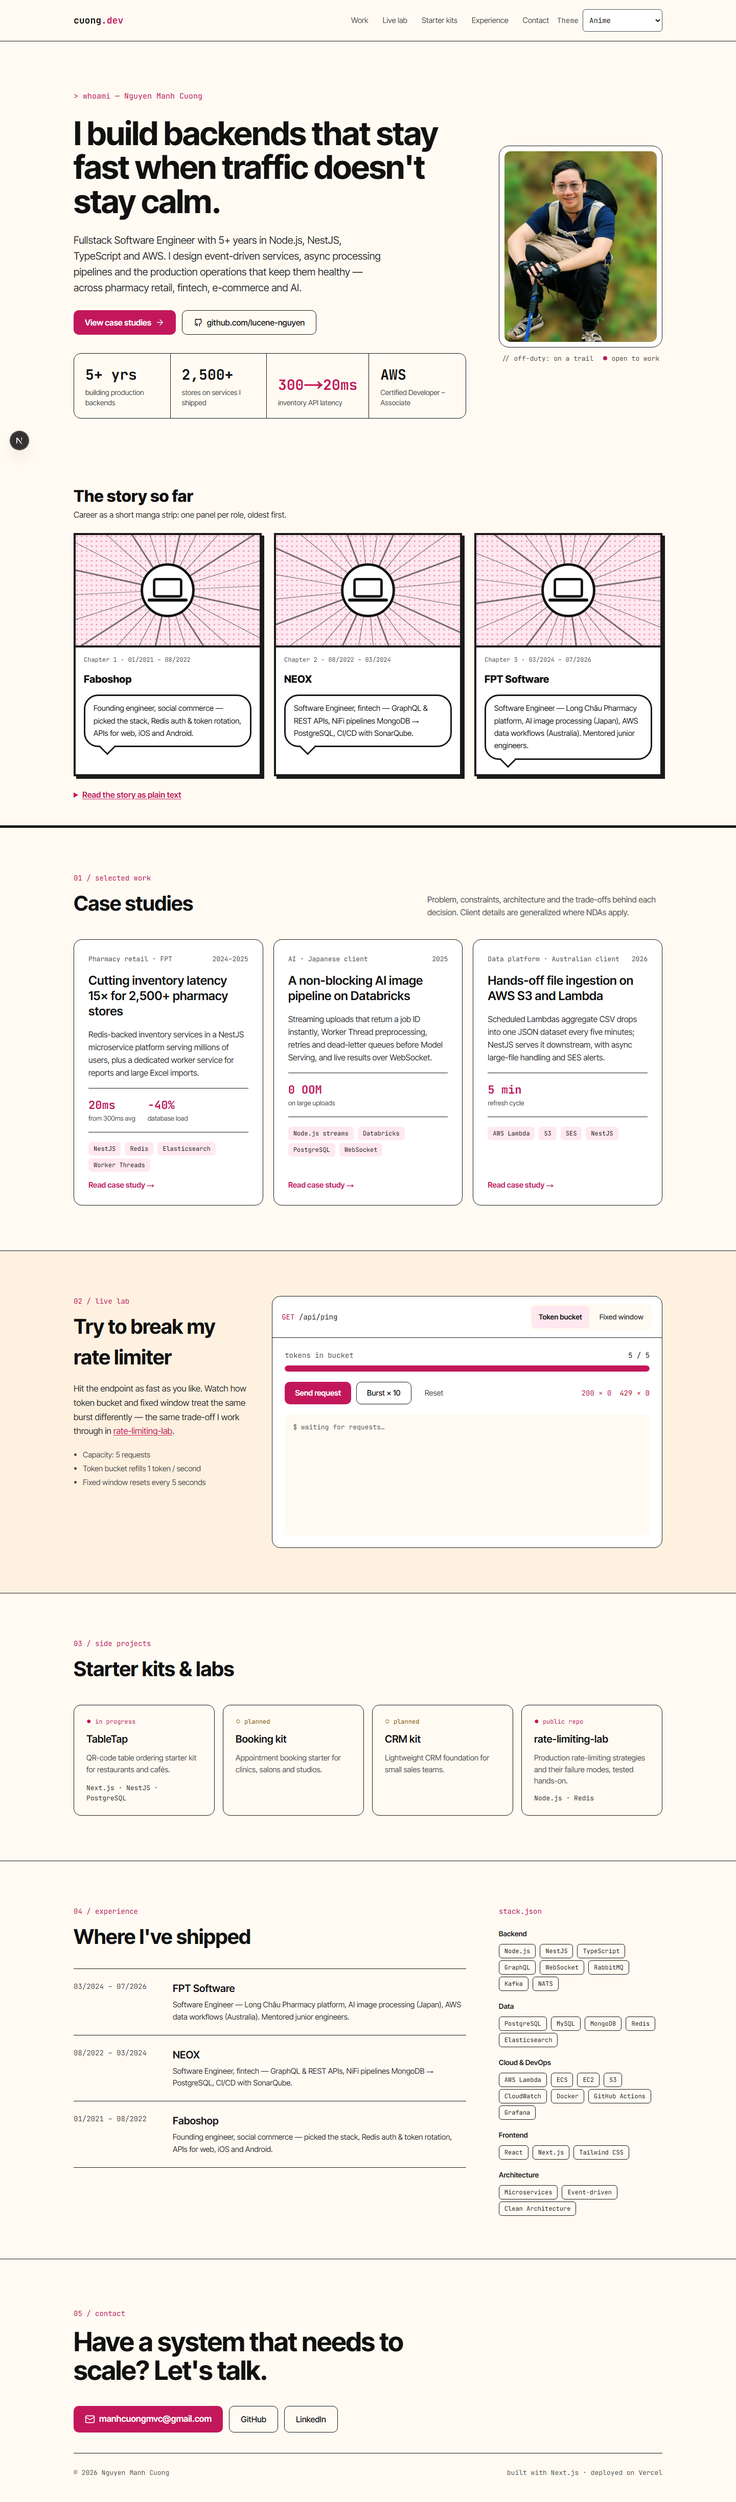
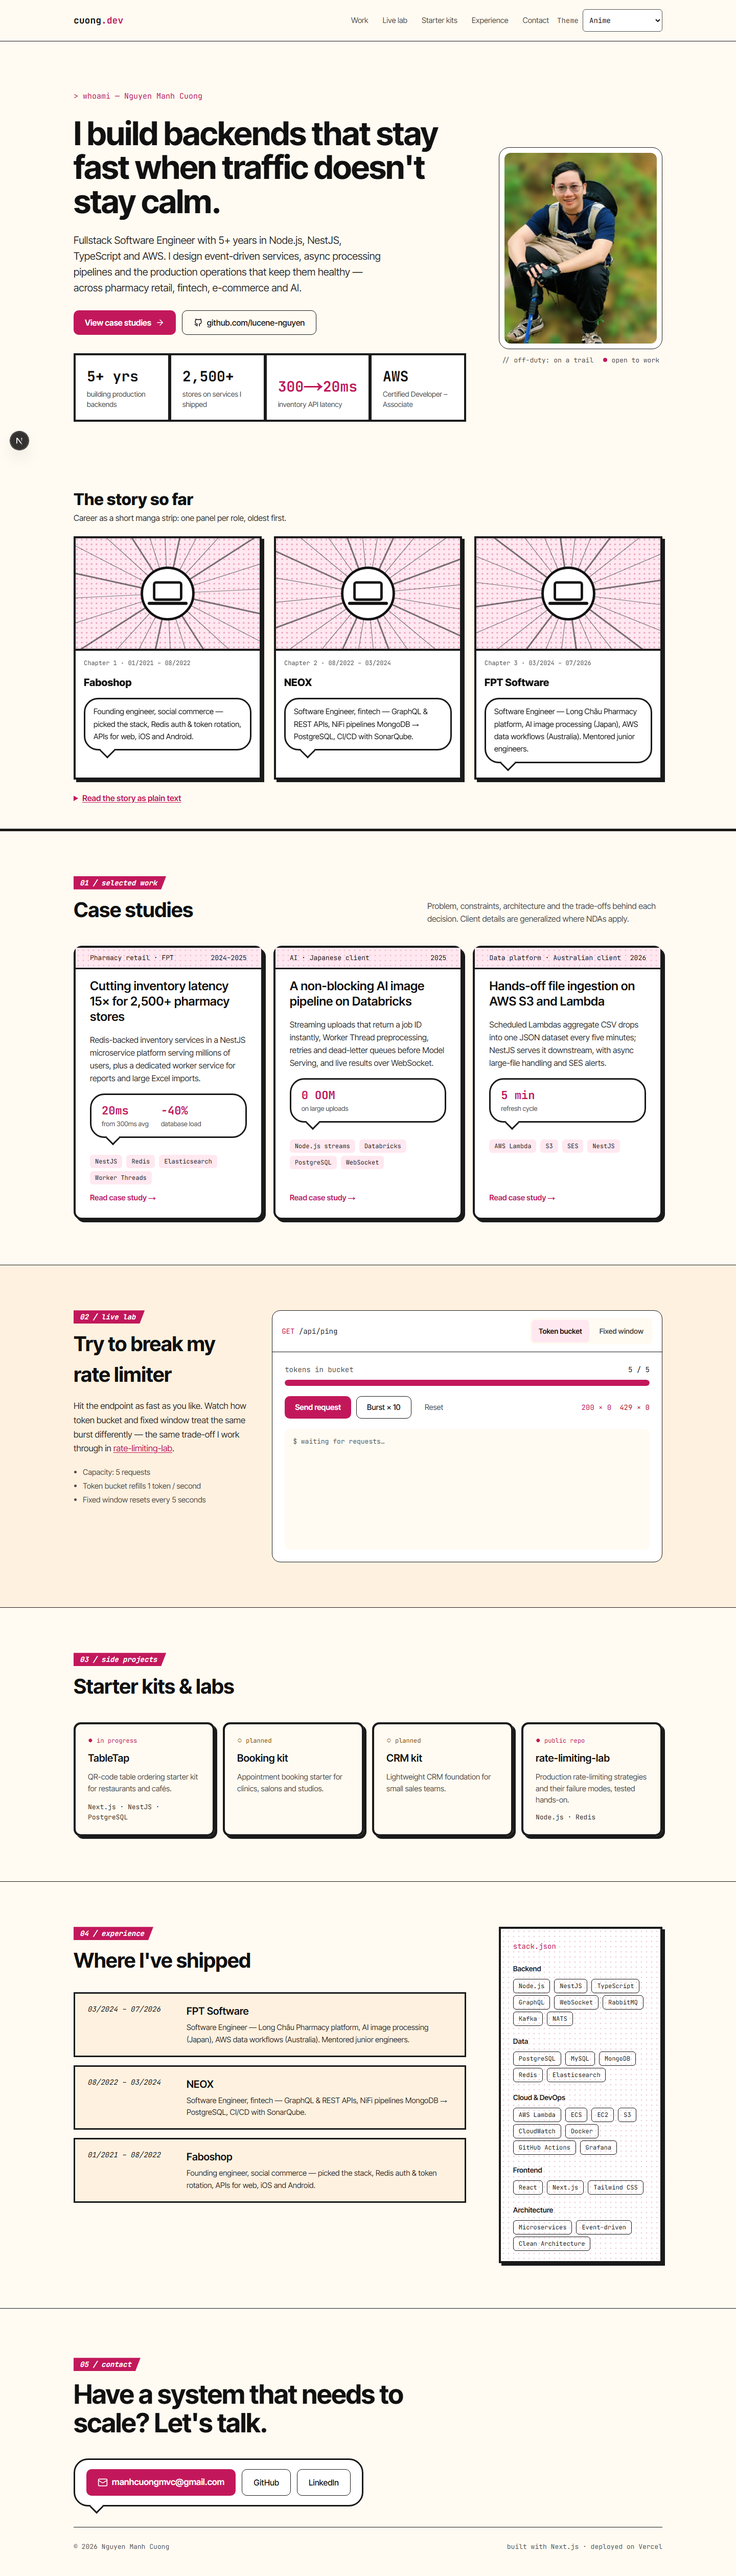
feat(ui): anime restyle - ink panels, screentone strips, speech-bubble metrics and contact, comic-page stats; checklist waits for entrance animations; screenshots

diff --git a/themes/anime/anime.css b/themes/anime/anime.css
@@ -34,3 +34,114 @@
     opacity: 0;
   }
 }
+
+/* Shared sections (design-system/portfolio-v3/pages/anime.md › Layout). Static: no new motion. */
+[data-theme="anime"] {
+  --mg-tone: radial-gradient(
+      color-mix(in srgb, var(--accent) 22%, transparent) 1.5px,
+      transparent 1.6px
+    )
+    0 0 / 10px 10px;
+}
+[data-theme="anime"] [data-part="eyebrow"] {
+  width: fit-content;
+  padding: 3px 18px 3px 12px;
+  background: var(--accent);
+  color: var(--accent-contrast);
+  font-weight: 700;
+  font-style: italic;
+  clip-path: polygon(0 0, 100% 0, calc(100% - 10px) 100%, 0 100%); /* chapter tab */
+}
+
+/* Case studies and kits: ink panels. */
+[data-theme="anime"] :is([data-part="case-card"], [data-part="kit"] > *) {
+  border: 4px solid var(--border) !important;
+  box-shadow: 5px 5px 0 var(--border);
+}
+/* Meta line: a screentone caption strip, edge to edge (card p-7, 4px border). */
+[data-theme="anime"] [data-part="case-meta"] {
+  margin: -1.75rem -1.75rem 0;
+  padding: 10px 1.75rem;
+  border-bottom: 3px solid var(--border);
+  background: var(--mg-tone), var(--surface2);
+  color: var(--text);
+}
+/* Metrics: a speech bubble with a tail. */
+[data-theme="anime"] [data-part="case-metrics"] {
+  position: relative;
+  margin-bottom: 14px;
+  padding: 14px 20px;
+  border: 3px solid var(--border);
+  border-radius: 28px;
+  background: var(--surface);
+}
+[data-theme="anime"] [data-part="case-metrics"]::after {
+  content: "";
+  position: absolute;
+  left: 32px;
+  bottom: -13px;
+  width: 20px;
+  height: 20px;
+  background: var(--surface);
+  border-right: 3px solid var(--border);
+  border-bottom: 3px solid var(--border);
+  transform: rotate(45deg);
+}
+
+/* Hero numbers: a comic page, white panels on ink gutters. */
+[data-theme="anime"] [data-part="stats"] {
+  gap: 6px;
+  border: 4px solid var(--border);
+  border-radius: 0;
+  background: var(--border);
+}
+[data-theme="anime"] [data-part="stat"] {
+  border: 0 !important;
+  background: var(--surface);
+}
+
+/* Experience: narration boxes; the stack sits on screentone. */
+[data-theme="anime"] [data-part="roles"] {
+  display: flex;
+  flex-direction: column;
+  gap: 16px;
+}
+[data-theme="anime"] [data-part="role"] {
+  padding: 20px 24px;
+  border: 3px solid var(--border) !important;
+  background: var(--bg-alt);
+}
+[data-theme="anime"] [data-part="role"] > span:first-child {
+  font-style: italic;
+  color: var(--text);
+}
+[data-theme="anime"] [data-part="stack"] {
+  align-self: flex-start;
+  padding: 24px;
+  border: 4px solid var(--border);
+  box-shadow: 5px 5px 0 var(--border);
+  background: var(--mg-tone), var(--surface);
+}
+
+/* Contact: the actions inside a speech bubble. */
+[data-theme="anime"] [data-part="contact-actions"] {
+  position: relative;
+  width: fit-content;
+  max-width: 100%;
+  padding: 18px 22px;
+  border: 3px solid var(--border);
+  border-radius: 28px;
+  background: var(--surface);
+}
+[data-theme="anime"] [data-part="contact-actions"]::after {
+  content: "";
+  position: absolute;
+  left: 32px;
+  bottom: -13px;
+  width: 20px;
+  height: 20px;
+  background: var(--surface);
+  border-right: 3px solid var(--border);
+  border-bottom: 3px solid var(--border);
+  transform: rotate(45deg);
+}

diff --git a/e2e/anime.spec.ts b/e2e/anime.spec.ts
@@ -43,3 +43,34 @@ test("bubble text contrast, axe clean, 375px", async ({ page }) => {
   );
   expect(overflow).toBeLessThanOrEqual(0);
 });
+
+test("shared sections are restyled as manga panels", async ({ page }) => {
+  await page.goto("/?theme=anime");
+  await expect(page.locator('#work [data-part="eyebrow"]')).toHaveCSS(
+    "background-color",
+    "rgb(194, 24, 91)",
+  );
+  const card = page.locator('#work [data-part="case-card"]').first();
+  await expect(card).toHaveCSS("border-top-width", "4px");
+  await expect(card).toHaveCSS("box-shadow", "rgb(26, 26, 26) 5px 5px 0px 0px");
+  const meta = page.locator('#work [data-part="case-meta"]').first();
+  await expect(meta).toHaveCSS("background-image", /radial-gradient/);
+  const [c, m] = await Promise.all([card.boundingBox(), meta.boundingBox()]);
+  expect(m!.x - c!.x).toBe(4);
+  await expect(page.locator('[data-part="case-metrics"]').first()).toHaveCSS(
+    "border-top-left-radius",
+    "28px",
+  );
+  await expect(page.locator('[data-part="stats"]')).toHaveCSS(
+    "background-color",
+    "rgb(26, 26, 26)",
+  );
+  await expect(page.locator('[data-part="role"]').first()).toHaveCSS(
+    "background-color",
+    "rgb(255, 241, 224)",
+  );
+  await expect(page.locator('[data-part="contact-actions"]')).toHaveCSS(
+    "border-top-left-radius",
+    "28px",
+  );
+});

diff --git a/e2e/checklist.spec.ts b/e2e/checklist.spec.ts
@@ -13,6 +13,7 @@ const THEMES = [
   "docs",
   "bento",
   "neo-brutalism",
+  "anime",
 ];
 
 const overflow = (page: Page) =>
@@ -58,6 +59,15 @@ for (const id of THEMES) {
       await page.setViewportSize({ width: 375, height: 812 });
       await page.goto(`/?theme=${id}`);
       await page.waitForTimeout(500);
+      // Scan the settled page: finite entrance animations (e.g. the anime strip fade-in) finish first.
+      await page.evaluate(() =>
+        Promise.all(
+          document
+            .getAnimations()
+            .filter((a) => a.effect?.getComputedTiming().endTime !== Infinity)
+            .map((a) => a.finished),
+        ),
+      );
       const small = await page.evaluate(() =>
         [...document.querySelectorAll("button, select")]
           .filter((el) => el.checkVisibility())

diff --git a/design-system/portfolio-v3/pages/anime.md b/design-system/portfolio-v3/pages/anime.md
@@ -37,3 +37,17 @@
 ## Manga strip
 - One panel per role (oldest first): art, "Chapter n · period", company, speech bubble with the role summary from `content/` (verbatim).
 - "Read the story as plain text" (`<details>`), 4px ink borders, hard shadow, bubbles with a tail.
+
+## Layout
+Shared sections (UI round 1). Searches:
+- `"storytelling scroll narrative" --domain landing` verified Scroll-Triggered Storytelling. Applied: chapter framing, and a narrative that reads fine without scroll effects. Rejected: scroll-driven reveals, since no new motion is added.
+- `"comic manga panel"` and `"comic illustration playful"` (`--domain style`) returned no match. The manga look below falls back to this page's own Manga strip rules, not to a database result.
+- ux `"visual hierarchy scanning"`: Font Size Scale is kept, and Hover States are already handled by the shared components. Breadcrumbs were ignored as off-topic.
+
+Rules:
+- Eyebrows are chapter tabs: an accent fill, white italic bold text and a slanted right edge (clip-path). White on #C2185B is about 5.9:1.
+- Case studies and kits are ink panels: a 4px border with a 5px hard shadow. The meta line is a screentone caption strip that runs edge to edge (halftone accent dots at 22% over surface2). The metrics sit in a speech bubble with a tail.
+- Hero numbers are a comic page: white panels on 6px ink gutters inside a 4px frame.
+- Experience: each role is a narration box (a bgAlt fill with a 3px ink border and an italic period). The stack is an ink panel on screentone.
+- The contact actions sit inside a speech bubble.
+- Rejected: skewed or rotated panels (they hurt reading at 375px) and panel entrance animation on the shared sections (the strip already has one).
